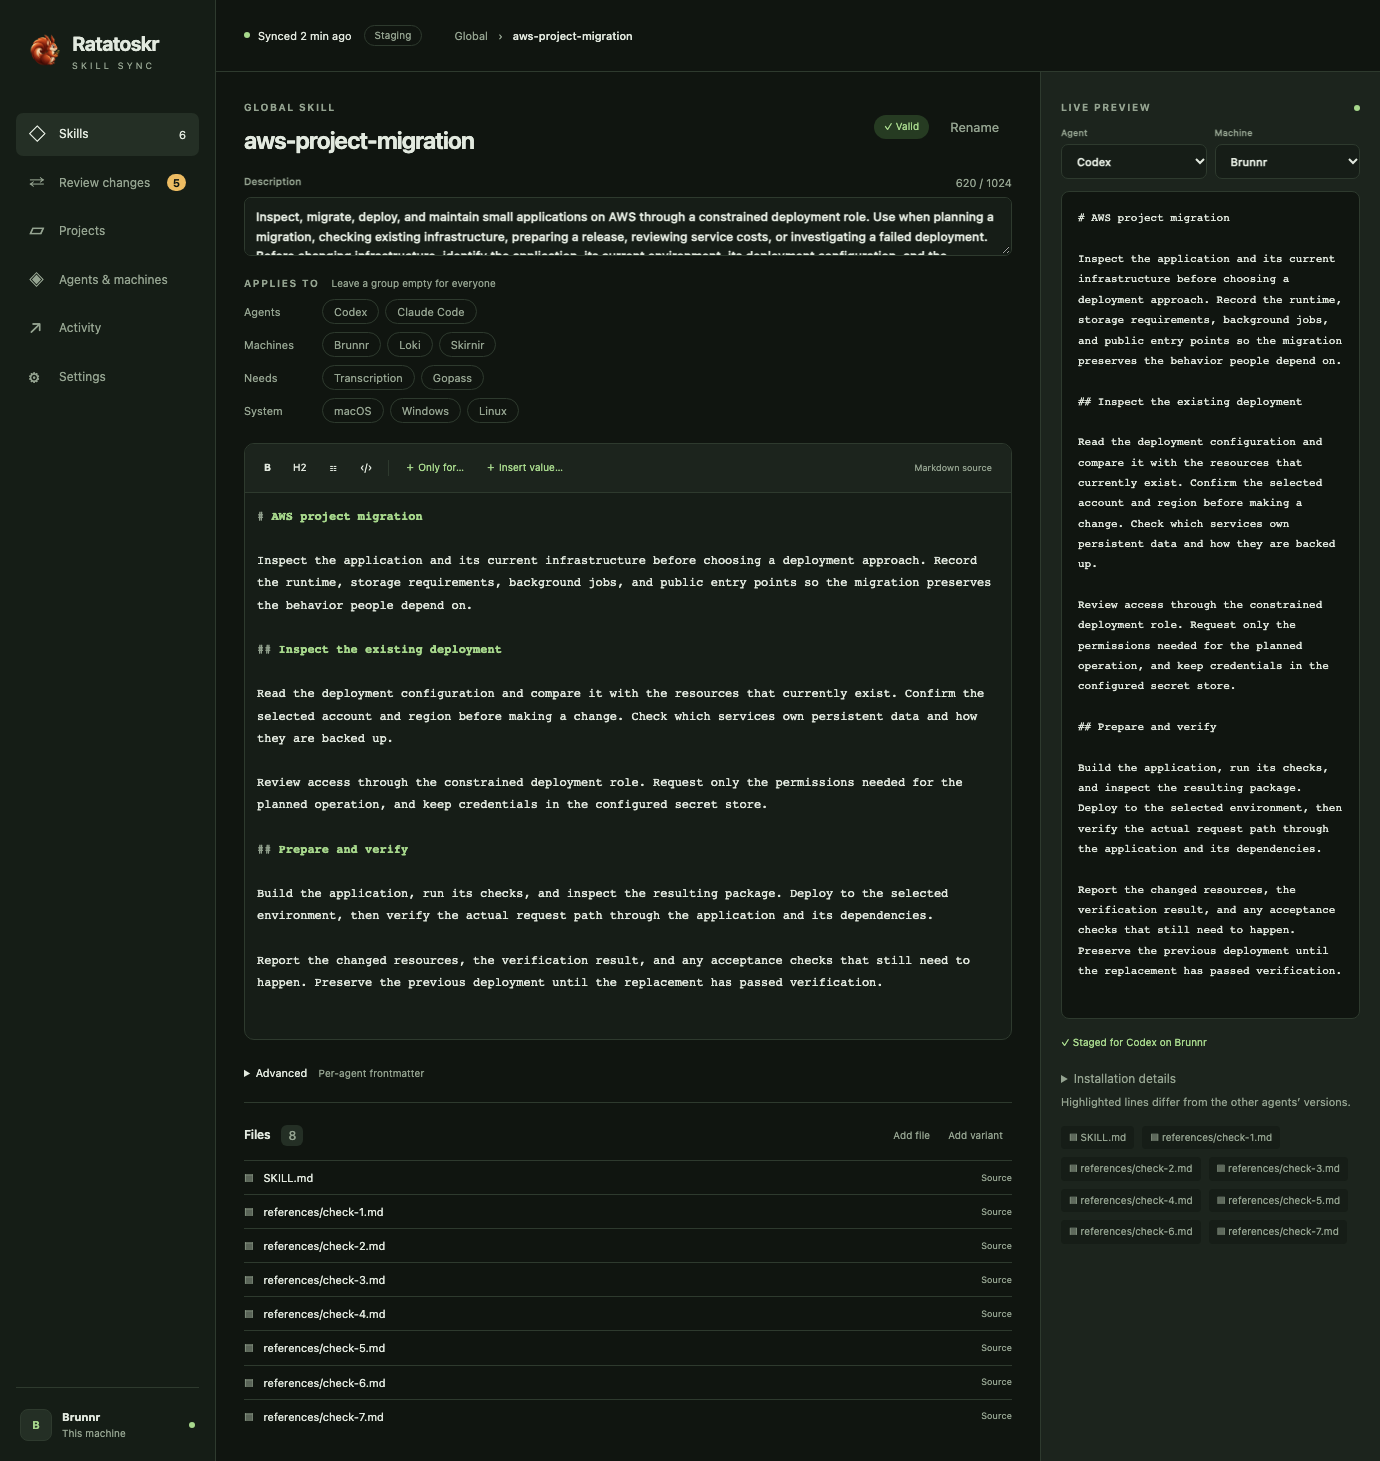
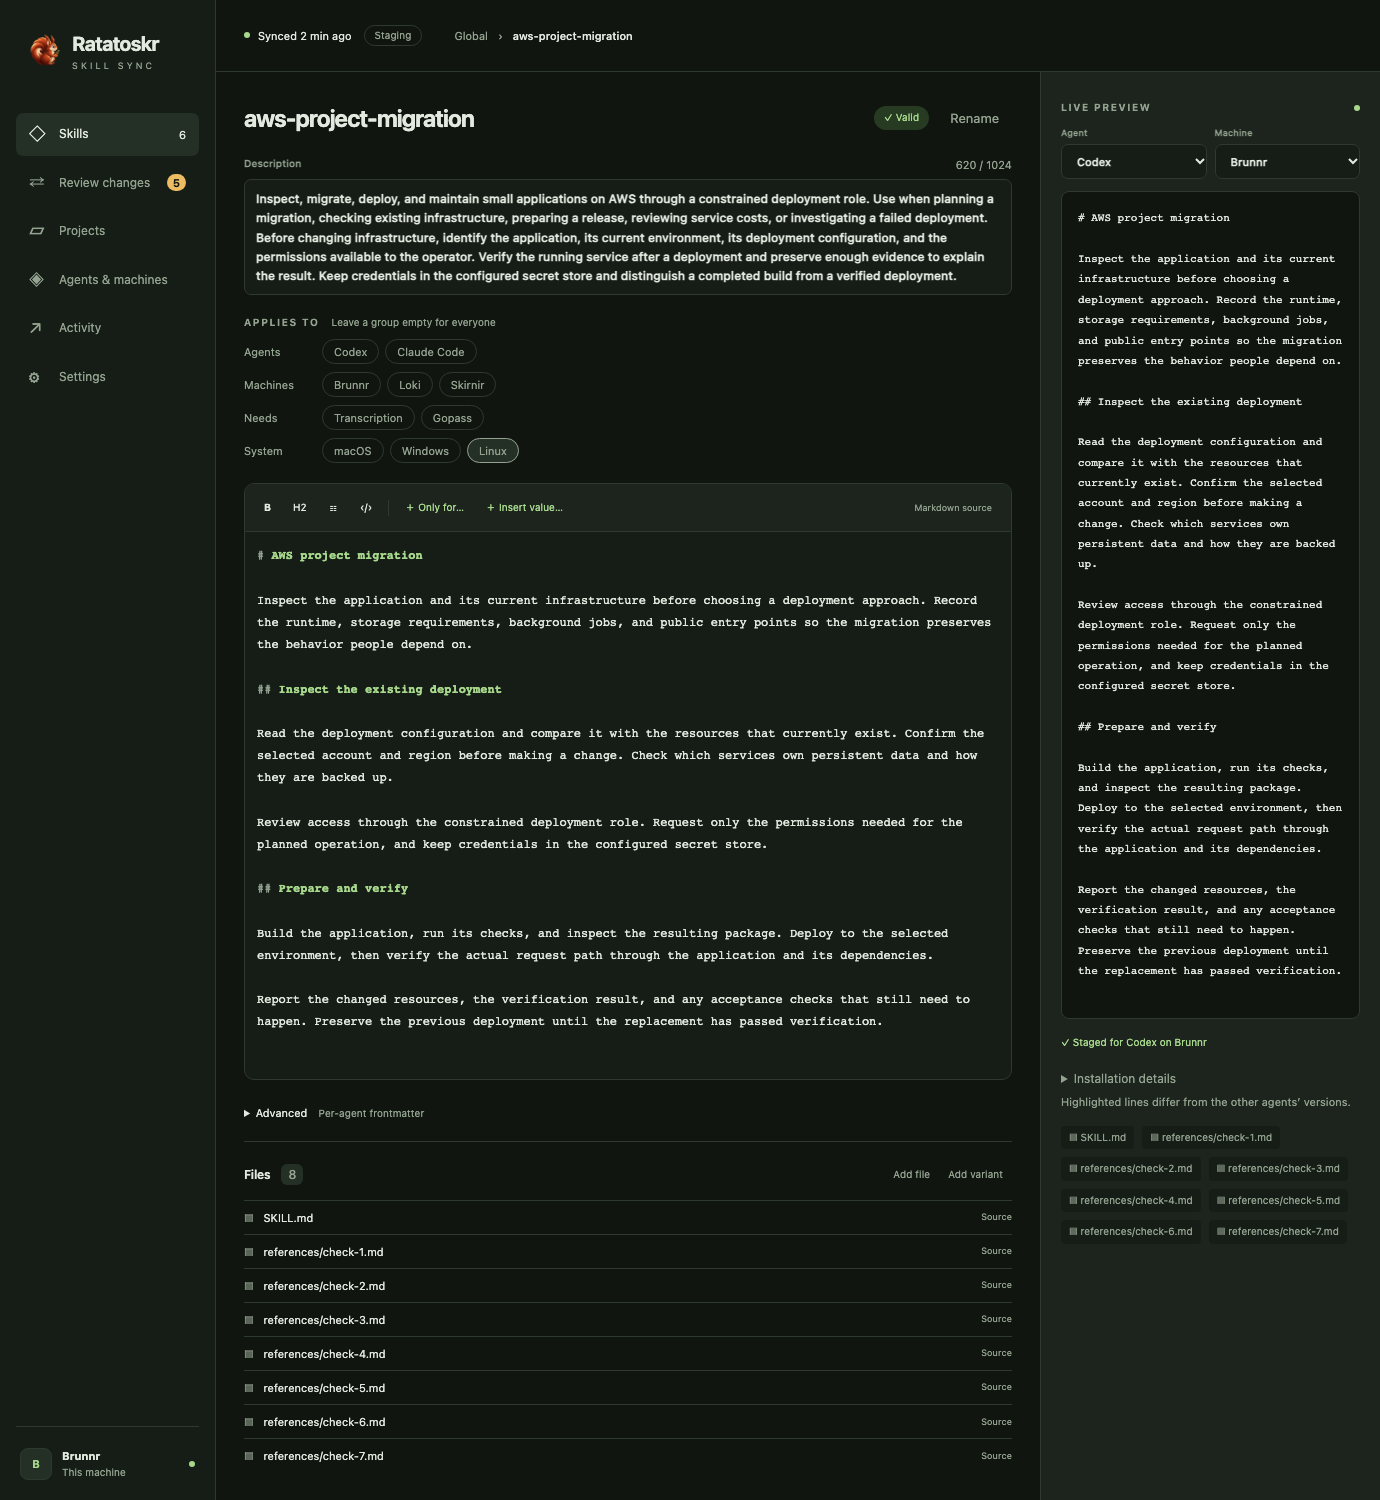
Fix description sizing and align review file counts

diff --git a/desktop/e2e/screenshots.spec.ts b/desktop/e2e/screenshots.spec.ts
@@ -88,6 +88,17 @@ test("all main screens", async ({ page }) => {
   await expect(page.getByLabel("Description")).toHaveValue(
     /Inspect, migrate, deploy/,
   );
+  const description = page.getByLabel("Description");
+  await expect
+    .poll(() =>
+      description.evaluate(
+        (node: HTMLTextAreaElement) => node.scrollHeight - node.clientHeight,
+      ),
+    )
+    .toBeLessThanOrEqual(1);
+  await expect(page.locator(".editor-source .eyebrow")).not.toContainText([
+    "GLOBAL SKILL",
+  ]);
   await expect(page.locator(".cm-gutters")).toHaveCount(0);
   await expect(page.locator(".cm-content")).not.toContainText("description:");
   // A long wrapped YAML description must contribute no hidden block height.
@@ -112,6 +123,39 @@ test("all main screens", async ({ page }) => {
   await page
     .getByRole("button", { name: "Markdown source", exact: true })
     .click();
+  const originalDescription = await description.inputValue();
+  await description.fill(
+    Array.from({ length: 30 }, (_, i) => `Description line ${i + 1}`).join(
+      "\n",
+    ),
+  );
+  await expect
+    .poll(() =>
+      description.evaluate((node: HTMLTextAreaElement) => node.clientHeight),
+    )
+    .toBeGreaterThan(200);
+  expect(
+    await description.evaluate(
+      (node: HTMLTextAreaElement) => node.getBoundingClientRect().height,
+    ),
+  ).toBeLessThanOrEqual(256);
+  expect(
+    await description.evaluate(
+      (node: HTMLTextAreaElement) => node.scrollHeight,
+    ),
+  ).toBeGreaterThan(256);
+  await description.fill(originalDescription);
+  await expect
+    .poll(() =>
+      description.evaluate(
+        (node: HTMLTextAreaElement) => node.scrollHeight - node.clientHeight,
+      ),
+    )
+    .toBeLessThanOrEqual(1);
+  await page.getByRole("button", { name: "Discard", exact: true }).click();
+  await expect(
+    page.getByRole("button", { name: "Save", exact: true }),
+  ).toHaveCount(0);
   for (const [screen, file] of [
     ["Review changes", "review-changes"],
     ["Projects", "projects"],
@@ -129,7 +173,7 @@ test("all main screens", async ({ page }) => {
     if (screen === "Review changes") {
       await expect(
         page.getByRole("button", {
-          name: "Write 18 files in the staging folder",
+          name: "Write 17 files in the staging folder",
           exact: true,
         }),
       ).toBeVisible();

diff --git a/desktop/src/views/Review.test.ts b/desktop/src/views/Review.test.ts
@@ -9,7 +9,7 @@ import { test, expect, vi, beforeEach } from "vitest";
 import { mockIPC, clearMocks } from "@tauri-apps/api/mocks";
 import Review from "./Review.svelte";
 import { fixture } from "../../tests/fixture";
-import { reviewSummary, applyAction, type Snapshot } from "../api";
+import { reviewSummary, type Snapshot } from "../api";
 beforeEach(() => clearMocks());
 const props = (workspace: Snapshot) => ({
   workspace,
@@ -34,7 +34,7 @@ test("attention badge groups eight files per skill and agent, and counts legacy 
   expect(within(group).queryByText("SKILL.md · update")).toBeInTheDocument();
   expect(group.querySelector(".group-files")).not.toHaveAttribute("open");
   expect(
-    screen.getByRole("button", { name: applyAction(fixture.workspace) }),
+    screen.getByRole("button", { name: summary.applyAction }),
   ).toBeDisabled();
   expect(
     screen.getByText(/Your real agent folders are not touched/),
@@ -43,6 +43,33 @@ test("attention badge groups eight files per skill and agent, and counts legacy 
     screen.getByRole("region", { name: "Older Codex copies" }),
   ).toHaveTextContent("/fixture-home/.agents/skills");
 });
+test.each([false, true])(
+  "ready count and Apply agree with conflicts and removals=%s",
+  (withRemoval) => {
+    const workspace = structuredClone(fixture.workspace);
+    if (withRemoval) workspace.plan.changes[0].action = "remove";
+    const summary = reviewSummary(workspace);
+    expect(summary.readyCount).toBe(17);
+    render(Review, props(workspace));
+    expect(screen.getByText(/items needing attention ·/)).toHaveTextContent(
+      `${summary.readyCount} ready files`,
+    );
+    const button = screen.getByRole("button", {
+      name: /in the staging folder/,
+    });
+    const counts = [...button.textContent!.matchAll(/(\d+) files?/g)].map((m) =>
+      Number(m[1]),
+    );
+    expect(counts.reduce((total, count) => total + count, 0)).toBe(
+      summary.readyCount,
+    );
+    expect(button).toHaveTextContent(
+      withRemoval
+        ? "Write 16 files and remove 1 file in the staging folder"
+        : "Write 17 files in the staging folder",
+    );
+  },
+);
 test("keep both submits only the explicitly reviewed duplicate and surfaces failures", async () => {
   const calls = vi.fn(() => {
     throw new Error("Legacy skill changed since preview; review it again");

diff --git a/desktop/src/views/SkillEditor.svelte b/desktop/src/views/SkillEditor.svelte
@@ -1,5 +1,5 @@
 <script lang="ts">
-  import { onMount } from "svelte";
+  import { onMount, tick } from "svelte";
   import {
     api,
     agentName,
@@ -73,6 +73,32 @@
   let extraKey = $state("");
   let extraValue = $state("");
   let description = $state("");
+  function growDescription(node: HTMLTextAreaElement, _value: string) {
+    let active = true;
+    let width = 0;
+    function resize() {
+      if (!active) return;
+      node.style.height = "auto";
+      const style = getComputedStyle(node);
+      node.style.height = `${node.scrollHeight + parseFloat(style.borderTopWidth) + parseFloat(style.borderBottomWidth)}px`;
+    }
+    const observer = new ResizeObserver(([entry]) => {
+      if (entry.contentRect.width !== width) {
+        width = entry.contentRect.width;
+        resize();
+      }
+    });
+    observer.observe(node);
+    return {
+      update(_value: string) {
+        void tick().then(resize);
+      },
+      destroy() {
+        active = false;
+        observer.disconnect();
+      },
+    };
+  }
   const dirty = $derived(
     !!document &&
       (markdown !== document.markdown ||
@@ -360,9 +386,6 @@
     <section class="editor-source">
       <div class="page-heading compact">
         <div>
-          <p class="eyebrow">
-            {skill.project ? "PROJECT SKILL" : "GLOBAL SKILL"}
-          </p>
           <h1>{skill.name}</h1>
         </div>
         <div class="heading-actions">
@@ -394,6 +417,7 @@
         ><textarea
           aria-label="Description"
           rows="2"
+          use:growDescription={description}
           bind:value={description}
           oninput={(e) => {
             void edit({ kind: "description", value: e.currentTarget.value });

diff --git a/desktop/src/api.ts b/desktop/src/api.ts
@@ -337,8 +337,11 @@ export function reviewSummary(workspace: Snapshot) {
     items.filter((g) => g.conflicts.length).length +
     errors.length +
     legacy.length;
+  const writes = readyChanges.filter((c) => c.action !== "remove").length;
+  const removes = readyChanges.length - writes;
   return {
-    readyChanges,
+    readyCount: readyChanges.length,
+    applyAction: applyAction(plan.mode, writes, removes),
     groups: items,
     errors,
     decisions,
@@ -346,11 +349,11 @@ export function reviewSummary(workspace: Snapshot) {
   };
 }
 
-export function applyAction(workspace: Snapshot): string {
-  const writes = workspace.plan.changes.filter(
-    (c) => c.action !== "remove",
-  ).length;
-  const removes = workspace.plan.changes.length - writes;
+function applyAction(
+  mode: Snapshot["plan"]["mode"],
+  writes: number,
+  removes: number,
+): string {
   const actions = [
     writes ? `Write ${writes} ${writes === 1 ? "file" : "files"}` : "",
     removes ? `remove ${removes} ${removes === 1 ? "file" : "files"}` : "",
@@ -358,6 +361,6 @@ export function applyAction(workspace: Snapshot): string {
     .filter(Boolean)
     .join(" and ");
   return actions
-    ? `${actions[0].toUpperCase()}${actions.slice(1)} ${workspace.plan.mode === "staging" ? "in the staging folder" : "in the real agent folders"}`
+    ? `${actions[0].toUpperCase()}${actions.slice(1)} ${mode === "staging" ? "in the staging folder" : "in the real agent folders"}`
     : "No files to apply";
 }

diff --git a/desktop/src/views/Review.svelte b/desktop/src/views/Review.svelte
@@ -7,7 +7,7 @@
     type Conflict,
     type Resolution,
   } from "../api";
-  import { errorText, title, reviewSummary, applyAction } from "../api";
+  import { errorText, title, reviewSummary } from "../api";
   const loadConflictEditor = () =>
     import("../components/ConflictSource.svelte");
   import Diff from "../components/Diff.svelte";
@@ -109,8 +109,8 @@
       <h1>Review changes <span class="count">{summary.total}</span></h1>
       <p class="muted">
         {summary.total}
-        {summary.total === 1 ? "item" : "items"} needing attention · {summary
-          .readyChanges.length} ready files · {summary.decisions}
+        {summary.total === 1 ? "item" : "items"} needing attention · {summary.readyCount}
+        ready files · {summary.decisions}
         {summary.decisions === 1 ? "decision" : "decisions"}
       </p>
     </div>
@@ -121,7 +121,7 @@
         !workspace.plan.changes.length ||
         workspace.legacy.length > 0}
       onclick={apply}
-      aria-describedby="apply-destination">{applyAction(workspace)}</button
+      aria-describedby="apply-destination">{summary.applyAction}</button
     >
   </div>
   <div id="apply-destination" class="apply-destination">

diff --git a/desktop/src/style.css b/desktop/src/style.css
@@ -799,6 +799,9 @@ nav button.active {
   margin-bottom: 6px;
 }
 .description-field textarea {
+  max-height: 16rem;
+  overflow-y: auto;
+  resize: none;
   font-size: 12px;
   background: var(--surface);
 }
